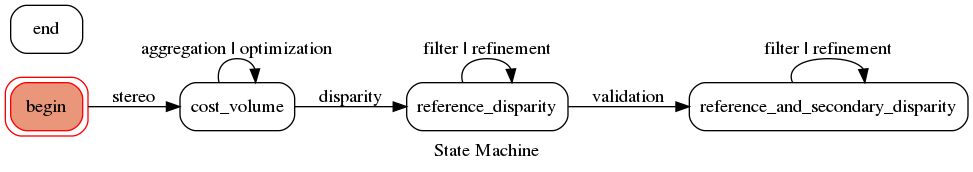
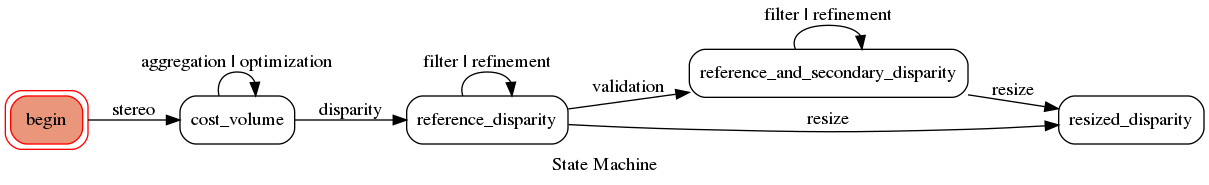
doc: udpate for resize and disparity parameters, Notice file

diff --git a/doc/sources/userguide/usage.rst b/doc/sources/userguide/usage.rst
@@ -50,6 +50,9 @@ Pandora works with JSON formatted data with the following nested structures.
           "optimization" : {
             ...
           },
+          "disparity" : {
+            ...
+          }
           "refinement": {
             ...
           },
@@ -58,34 +61,38 @@ Pandora works with JSON formatted data with the following nested structures.
           },
           "validation" : {
             ...
+          },
+          "resize" : {
+            ...
           }
       }
-      "invalid_disparity": ...
     }
 
 "Pipeline" parameters define steps sequencing to be run. Pandora will check if sub-parameters of each mentioned step are correct.
 
-+---------------------+-----------------------------------+------+---------------+---------------------------+----------+
-| Name                | Description                       | Type | Default value | Sub structures            | Required |
-+=====================+===================================+======+===============+===========================+==========+
-| *input*             | Input data to process             | dict |               | :ref:`input_parameters`   | Yes      |
-+---------------------+-----------------------------------+------+---------------+---------------------------+----------+
-| *image*             | Images and masks parameters       | dict |               | :ref:`image_parameters`   | Yes      |
-+---------------------+-----------------------------------+------+---------------+---------------------------+----------+
-| *stereo*            | Pixel and mask parameters         | dict |               | :ref:`stereo_parameters`  | Yes      |
-+---------------------+-----------------------------------+------+---------------+---------------------------+----------+
-| *aggregation*       | Aggregation step parameters       | dict |               | :ref:`aggreg_parameters`  | No       |
-+---------------------+-----------------------------------+------+---------------+---------------------------+----------+
-| *optimization*      | Optimization step parameters      | dict |               | :ref:`optim_parameters`   | No       |
-+---------------------+-----------------------------------+------+---------------+---------------------------+----------+
-| *refinement*        | Refinement step parameters        | dict |               | :ref:`refine_parameters`  | No       |
-+---------------------+-----------------------------------+------+---------------+---------------------------+----------+
-| *filter*            | Filtering step parameters         | dict |               | :ref:`filter_parameters`  | No       |
-+---------------------+-----------------------------------+------+---------------+---------------------------+----------+
-| *validation*        | Validation step parameters        | dict |               | :ref:`valid_parameters`   | No       |
-+---------------------+-----------------------------------+------+---------------+---------------------------+----------+
-| *invalid disparity* | Disparity value for invalid pixel | int  | -99999        |                           | No       |
-+---------------------+-----------------------------------+------+---------------+---------------------------+----------+
++---------------------+-----------------------------------+------+---------------+------------------------------+---------+
+| Name                | Description                       | Type | Default value | Sub structures              | Required |
++=====================+===================================+======+===============+=============================+==========+
+| *input*             | Input data to process             | dict |               | :ref:`input_parameters`     | Yes      |
++---------------------+-----------------------------------+------+---------------+-----------------------------+----------+
+| *image*             | Images and masks parameters       | dict |               | :ref:`image_parameters`     | Yes      |
++---------------------+-----------------------------------+------+---------------+-----------------------------+----------+
+| *stereo*            | Pixel and mask parameters         | dict |               | :ref:`stereo_parameters`    | Yes      |
++---------------------+-----------------------------------+------+---------------+-----------------------------+----------+
+| *aggregation*       | Aggregation step parameters       | dict |               | :ref:`aggreg_parameters`    | No       |
++---------------------+-----------------------------------+------+---------------+-----------------------------+----------+
+| *optimization*      | Optimization step parameters      | dict |               | :ref:`optim_parameters`     | No       |
++---------------------+-----------------------------------+------+---------------+-----------------------------+----------+
+| *disparity *        | Disparity  step parameters        | dict |               | :ref:`disparity_parameters` | No       |
++---------------------+-----------------------------------+------+---------------+-----------------------------+----------+
+| *refinement*        | Refinement step parameters        | dict |               | :ref:`refine_parameters`    | No       |
++---------------------+-----------------------------------+------+---------------+-----------------------------+----------+
+| *filter*            | Filtering step parameters         | dict |               | :ref:`filter_parameters`    | No       |
++---------------------+-----------------------------------+------+---------------+-----------------------------+----------+
+| *validation*        | Validation step parameters        | dict |               | :ref:`valid_parameters`     | No       |
++---------------------+-----------------------------------+------+---------------+-----------------------------+----------+
+| *resize*            | Resize step parameters            | dict |               | :ref:`resize_parameters`    | No       |
++---------------------+-----------------------------------+------+---------------+-----------------------------+----------+
 
 .. _input_parameters:
 
@@ -185,10 +192,23 @@ Optimization parameters
 +-----------------------+----------------------+--------+---------------+-------------------------------------+----------+
 | Name                  | Description          | Type   | Default value | Available value                     | Required |
 +=======================+======================+========+===============+=====================================+==========+
-| *optimization_method* | Optimization méthode | string |               | "sgm" if plugin_libsgm is installed | Yes      |
+| *optimization_method* | Optimization method  | string |               | "sgm" if plugin_libsgm is installed | Yes      |
 +-----------------------+----------------------+--------+---------------+-------------------------------------+----------+
 
 .. note:: If plugin_libsgm is installed, see the documentation of this package. There are subparameters for sgm method.
+
+.. _disparity_parameters:
+
+Disparity  parameters
+^^^^^^^^^^^^^^^^^^^^^
+
++---------------------+--------------------------+------------+---------------+---------------------+----------+
+| Name                | Description              | Type       | Default value | Available value     | Required |
++=====================+==========================+============+===============+=====================+==========+
+| *disparity _method* | disparity method         | string     |               | "wta"               | Yes      |
++---------------------+--------------------------+------------+---------------+---------------------+----------+
+| *invalid_disparity* | invalid disparity value  | int, float |     -9999     | "np.nan" for NaN    | No       |
++---------------------+--------------------------+------------+---------------+---------------------+----------+
 
 .. _refine_parameters:
 
@@ -238,17 +258,32 @@ Validation parameters
 | *interpolated_disparity*          | Interpolation method for filling occlusion and mismatches                                               | string |               | "mc_cnn", "sgm"           | No       |
 +-----------------------------------+---------------------------------------------------------------------------------------------------------+--------+---------------+---------------------------+----------+
 
+.. _resize_parameters:
+
+Resize  parameters
+^^^^^^^^^^^^^^^^^^
+
++---------------------+--------------------------+------------+---------------+---------------------+----------+
+| Name                | Description              | Type       | Default value | Available value     | Required |
++=====================+==========================+============+===============+=====================+==========+
+| *border_disparity*  | border  disparity value  | int, float |               | "np.nan" for NaN    | Yes      |
++---------------------+--------------------------+------------+---------------+---------------------+----------+
+
+.. note::
+  See :ref:`border_management` to understand the goal of this step.
+
 Sequencing of Pandora steps (Pandora Machine)
 ^^^^^^^^^^^^^^^^^^^^^^^^^^^^^^^^^^^^^^^^^^^^^
 
 Moreover, Pandora will check if the requested steps sequencing is correct following the permitted
 transition defined by the Pandora Machine (`transitions <https://github.com/pytransitions/transitions>`_)
 
-Pandora Machine defines 4 possible states:
+Pandora Machine defines 5 possible states:
  - begin
  - cost_volume
  - reference_disparity
  - reference_and_secondary_disparity
+ - Resized_disparity
 
 It starts at the begin state. To go from a state from another one, transitions are called and triggered
 by specific name. It corresponds to the name of Pandora steps you can write in configuration file.
@@ -280,19 +315,23 @@ median filter method.
         "disp_min": -100,
         "disp_max": 100
       },
-      "invalid_disparity": -9999,
       "pipeline": {
           "stereo": {
             "stereo_method": "ssd",
             "window_size": 5,
             "subpix": 1
           },
-        "disparity": "wta",
-        "filter": {
-                      "filter_method": "median"
-                    }
-
-     }
+          "disparity": {
+            "disparity_method": "wta",
+            "invalid_disparity": "np.nan"
+          },
+          "filter": {
+            "filter_method": "median"
+          }
+          "resize": {
+            "border_disparity": "np.nan"
+          }
+      }
     }
 
 An impossible sequencing
@@ -311,17 +350,22 @@ An impossible sequencing
         "disp_min": -100,
         "disp_max": 100
       },
-      "invalid_disparity": -9999,
       "pipeline": {
           "stereo": {
             "stereo_method": "ssd",
             "window_size": 5,
             "subpix": 1
           },
-        "filter": {
-                      "filter_method": "median"
-                    }
-        "disparity": "wta",
+          "filter": {
+            "filter_method": "median"
+          }
+          "disparity": {
+            "disparity_method": "wta",
+            "invalid_disparity": "np.nan"
+          },
+          "filter": {
+            "filter_method": "median"
+          }
      }
     }
 

diff --git a/doc/sources/userguide/pandora_data.rst b/doc/sources/userguide/pandora_data.rst
@@ -160,6 +160,7 @@ rejection criterion (= 1 if rejection, = 0 otherwise):
 
 The validity masks are stored in the xarray.Dataset ref and sec in the pandora/__init__.py file.
 
+.. _border_management:
 
 Border management
 -----------------
@@ -184,8 +185,8 @@ the xarray.Dataset. For an image of 100x100 with a window of 5x5, the products w
    Attributes:
        offset_row_col:  2
 
-The resize method of the disparity module, allows to restitute disparity maps and masks with the size
-original: add the pixels that have been truncated:
+The resize method of the common module, allows to restitute disparity maps and masks with the original size
+: add the pixels that have been truncated:
 
 .. sourcecode:: text
 
@@ -198,7 +199,8 @@ original: add the pixels that have been truncated:
        offset_row_col:  0
 
 These pixels will have bit 0 set, *The point is invalid: reference image edge*, in the :ref:`validity_mask` and
-will be assigned the *invalid_disparity* ( configurable in the json configuration file ) in the disparity maps.
+will be assigned the *border_disparity* ( configurable in the json configuration file , see :ref:`resize_parameters`  )
+in the disparity maps.
 
 Secondary image
 ^^^^^^^^^^^^^^^

diff --git a/doc/sources/getting_started/examples.rst b/doc/sources/getting_started/examples.rst
@@ -16,16 +16,23 @@ Define your inputs and configure your pipeline by writting a json configuration 
         "disp_max" : 0
       },
       "pipeline": {
-        "stereo" : {
-          "stereo_method": "zncc",
-          "window_size": 5,
-          "subpix": 4
-      },
-      "invalid_disparity": 0
+          "stereo": {
+            "stereo_method": "ssd",
+            "window_size": 5,
+            "subpix": 1
+          },
+          "disparity": {
+            "disparity_method": "wta",
+            "invalid_disparity": "np.nan"
+          },
+          "filter": {
+            "filter_method": "median"
+          }
+          "resize": {
+            "border_disparity": "np.nan"
+          }
       }
     }
-
-
 
 And run pandora
 
